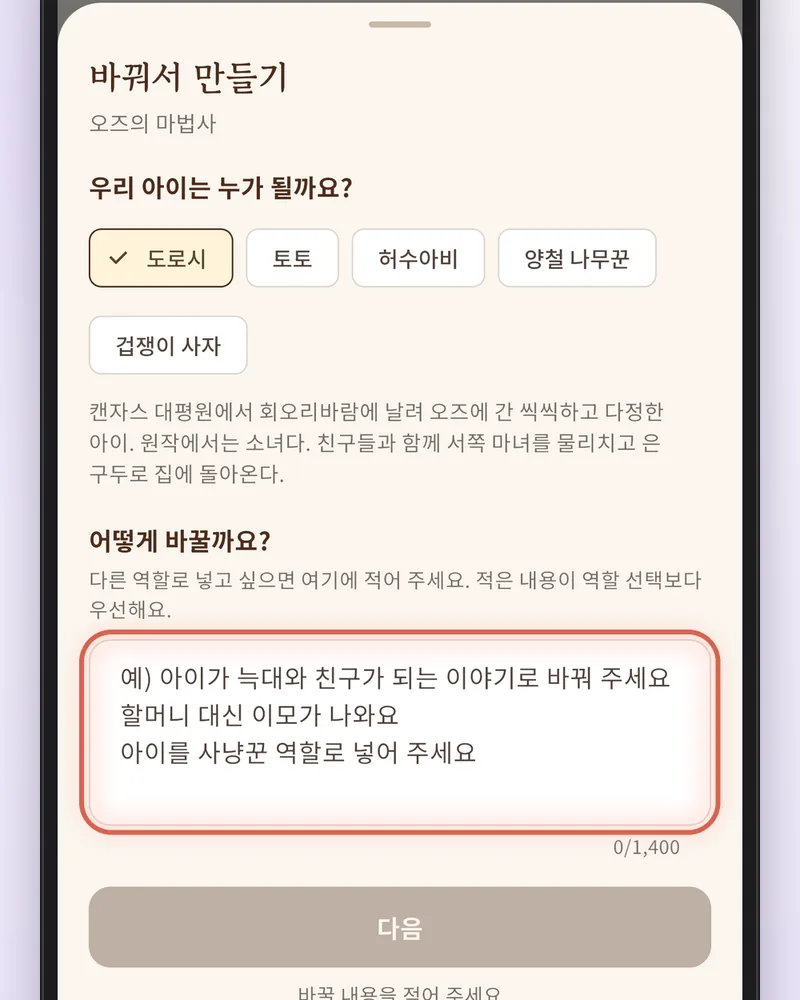
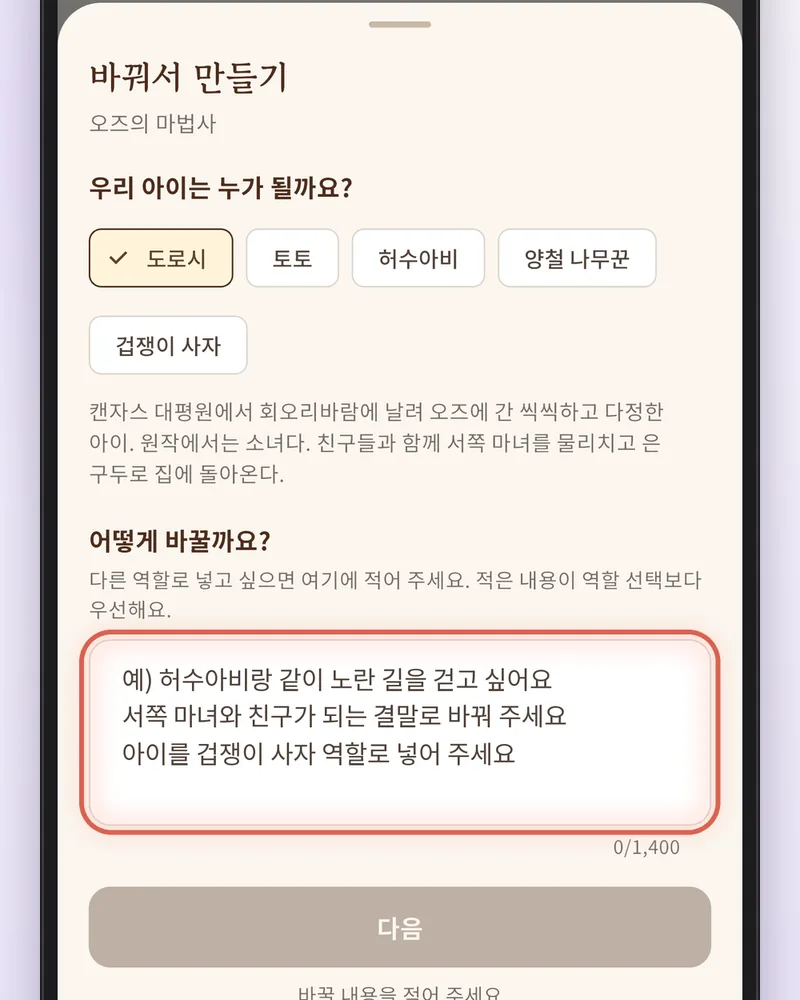
fix: 다운로드 페이지 책 사진을 실제 빨간 모자 펼침으로, 오즈 합성 화면 값 정리
- 첫 화면 책 사진의 펼친 책 두 권을 실제 생성 책(서윤 빨간 모자) 2·3쪽, 6·7쪽 페이지로 교체(글상자·말풍선이 그림 안에 든 실제 페이지), 비밀의 화원 잘림 정리(books-shelf-v3)
- 오즈 읽기 합성 화면에서 빨간 모자 쪽 수·날짜 표기 제거
- 바꿔서 만들기 입력칸 예시를 오즈에 맞는 문구로 교체
- prev.html을 직전 라이브(#75) 버전으로 갱신

Changed region(s): [[0.1562, 0.651, 0.8438, 0.775]]

diff --git a/download/prev.html b/download/prev.html
@@ -71,13 +71,23 @@
   .store svg{width:19px;height:19px;flex:none}
 
   /* nav */
-  .nav{position:relative;z-index:2;max-width:1080px;margin:0 auto;height:60px;padding-inline:20px;display:flex;align-items:center;justify-content:space-between}
-  .brand{display:flex;align-items:center;gap:8px;font-size:17px;font-weight:700;letter-spacing:-.2px}
-  .brand img{width:30px;height:30px}
-  .util{display:inline-flex;align-items:center;min-height:34px;padding:4px 14px;border:1px solid rgba(0,0,0,.08);border-radius:9999px;font-size:14px;font-weight:600;color:var(--ink2);background:rgba(255,255,255,.7)}
+  .nav-wrap{position:relative;z-index:40;padding:10px 12px 0}
+  .nav{position:relative;max-width:820px;margin:0 auto;height:54px;padding:0 7px 0 14px;display:flex;align-items:center;gap:8px;border-radius:9999px;background:rgba(255,255,255,.72);-webkit-backdrop-filter:blur(14px);backdrop-filter:blur(14px);border:1px solid rgba(255,255,255,.9);box-shadow:0 6px 24px -12px rgba(60,40,70,.25)}
+  .brand{display:flex;align-items:center;gap:8px;font-size:16px;font-weight:700;letter-spacing:-.2px;margin-right:auto}
+  .brand img{width:28px;height:28px}
+  .nav-links{display:none}
+  .nav-links a{display:block;padding:8px 14px;border-radius:9999px;font-size:15px;font-weight:600;color:var(--ink2)}
+  .nav-links a:hover{background:rgba(0,0,0,.05)}
+  .nav-cta{display:inline-flex;align-items:center;height:40px;padding:0 16px;border-radius:9999px;background:#1d1b19;color:#fff;font-size:14px;font-weight:600;white-space:nowrap}
+  .menu-btn{display:inline-flex;align-items:center;justify-content:center;width:40px;height:40px;border:0;border-radius:9999px;background:transparent;cursor:pointer;color:var(--ink2)}
+  .menu-btn svg{width:22px;height:22px}
+  .nav.open .nav-links{display:block;position:absolute;left:0;right:0;top:62px;padding:8px;border-radius:20px;background:#fff;border:1px solid var(--hairline);box-shadow:0 18px 40px -20px rgba(60,40,70,.35)}
+  .nav.open .nav-links a{padding:12px 14px;font-size:16px}
+  .top{margin-top:-64px;padding-top:64px}
+  #how,#compare,#reviews,#benefit,#get{scroll-margin-top:20px}
 
   /* hero */
-  .top{position:relative;overflow:hidden;background:
+  .top{position:relative;background:
     radial-gradient(60% 55% at 18% 8%,rgba(255,206,222,.75),rgba(255,206,222,0) 70%),
     radial-gradient(55% 50% at 86% 14%,rgba(222,212,255,.8),rgba(222,212,255,0) 70%),
     radial-gradient(70% 60% at 50% 62%,rgba(255,226,204,.65),rgba(255,226,204,0) 72%),
@@ -126,8 +136,8 @@
   .rail{display:flex;gap:12px;overflow-x:auto;scroll-snap-type:x mandatory;padding:4px max(8%,calc((100% - 460px)/2)) 12px;scrollbar-width:none;max-width:980px;margin:0 auto}
   .rail::-webkit-scrollbar{display:none}
   .rail figure{flex:0 0 84%;max-width:460px;margin:0;scroll-snap-align:center;background:var(--surface);border:1px solid var(--hairline);border-radius:12px;overflow:hidden}
-  .rail .pic{aspect-ratio:4/5;background:var(--app);display:flex;align-items:center;justify-content:center;overflow:hidden}
-  .rail .pic img{width:100%;height:100%;object-fit:contain}
+  .rail .pic{aspect-ratio:4/5;background:var(--app);overflow:hidden}
+  .rail .pic img{width:100%;height:100%;object-fit:cover}
   .rail figcaption{padding:12px 16px 14px;font-size:15px;font-weight:600;color:var(--ink)}
   .dots{display:flex;justify-content:center;gap:6px;margin-top:6px}
   .dots i{width:6px;height:6px;border-radius:9999px;background:#d6d3cf;transition:width .25s,background .25s}
@@ -135,7 +145,7 @@
 
   /* 고객님 후기 (clipspray #how 형태) */
   .rv-box{display:grid;gap:24px;max-width:880px;margin:0 auto}
-  .rv-media{position:relative;display:block;width:min(100%,340px);margin:0 auto;aspect-ratio:9/13;border-radius:24px;overflow:hidden;background:#222;box-shadow:0 30px 60px -30px rgba(30,20,10,.55)}
+  .rv-media{position:relative;display:block;width:min(100%,340px);margin:0 auto;aspect-ratio:732/825;border-radius:24px;overflow:hidden;background:#222;box-shadow:0 30px 60px -30px rgba(30,20,10,.55)}
   .rv-media img,.rv-media video{width:100%;height:100%;object-fit:cover;display:block}
   .rv-media::after{content:"";position:absolute;inset:auto 0 0 0;height:30%;background:linear-gradient(rgba(0,0,0,0),rgba(0,0,0,.35));pointer-events:none}
   .rv-media .play{position:absolute;left:50%;top:50%;z-index:1;width:68px;height:68px;margin:-34px 0 0 -34px;border-radius:9999px;background:rgba(255,255,255,.94);display:flex;align-items:center;justify-content:center;box-shadow:0 10px 26px -8px rgba(0,0,0,.45)}
@@ -151,7 +161,7 @@
   .rv-thumbs{max-width:880px;margin:36px auto 0}
   .rv-thumbs p{font-size:14px;color:var(--muted)}
   .rv-thumbs ul{display:flex;gap:10px;overflow-x:auto;margin-top:10px;padding-bottom:4px;scrollbar-width:none}
-  .rv-thumbs button{flex:none;width:76px;aspect-ratio:9/13;padding:0;border:2px solid transparent;border-radius:12px;overflow:hidden;background:none;cursor:pointer;opacity:.7}
+  .rv-thumbs button{flex:none;width:76px;aspect-ratio:732/825;padding:0;border:2px solid transparent;border-radius:12px;overflow:hidden;background:none;cursor:pointer;opacity:.7}
   .rv-thumbs button[aria-current="true"]{border-color:var(--coral);opacity:1}
   .rv-thumbs img{width:100%;height:100%;object-fit:cover}
 
@@ -169,7 +179,14 @@
   .bar .store svg{width:17px;height:17px}
 
   @media (min-width:900px){
-    .nav{height:72px}
+    .nav-wrap{position:sticky;top:0;padding-top:14px}
+    .nav{height:58px;padding-left:18px}
+    .brand{margin-right:0;flex:1}
+    .nav-links{display:flex;gap:2px;flex:none}
+    .nav-cta-wrap{flex:1;display:flex;justify-content:flex-end}
+    .menu-btn{display:none}
+    .top{margin-top:-72px;padding-top:72px}
+    #how,#compare,#reviews,#benefit,#get{scroll-margin-top:90px}
     section{padding-block:104px}
     .hero{padding-top:56px;padding-bottom:64px}
     .hero .sub{font-size:18px}
@@ -188,17 +205,23 @@
 </style>
 </head>
 <body>
-<div class="top">
-  <header class="nav">
+<header class="nav-wrap">
+  <nav class="nav" id="nav" aria-label="페이지 메뉴">
     <a class="brand" href="../"><img src="../assets/logo.svg" alt="">북끼끼</a>
-    <a class="util" href="#reviews">고객님 후기</a>
-  </header>
+    <div class="nav-links" id="navLinks">
+      <a href="#how">기능</a><a href="#compare">차별점</a><a href="#reviews">후기</a><a href="#benefit">혜택</a>
+    </div>
+    <div class="nav-cta-wrap"><a class="nav-cta" id="navCta" href="#get">앱 받기</a></div>
+    <button type="button" class="menu-btn" id="menuBtn" aria-label="메뉴 열기" aria-expanded="false" aria-controls="navLinks"><svg viewBox="0 0 24 24" fill="none" stroke="currentColor" stroke-width="2" stroke-linecap="round" aria-hidden="true"><path d="M4 7h16M4 12h16M4 17h16"/></svg></button>
+  </nav>
+</header>
+<div class="top">
   <section class="hero">
     <div class="wrap">
       <h1><em>우리 아이가<br>주인공</em>인<br>영어 동화책</h1>
       <p class="sub">아이 수준에 맞춘 영어로, <br>아이가 주인공인 동화책을 만들어요</p>
       <div class="stores" id="heroStores"><a class="store" href="https://apps.apple.com/kr/app/id6810455009"><svg viewBox="0 0 24 24" fill="#fff" aria-hidden="true"><path d="M16.4 12.6c0-2.4 2-3.6 2.1-3.7-1.1-1.7-2.9-1.9-3.5-1.9-1.5-.2-2.9.9-3.7.9-.8 0-1.9-.9-3.2-.8-1.6 0-3.1 1-4 2.4-1.7 3-.4 7.4 1.2 9.8.8 1.2 1.8 2.5 3 2.4 1.2 0 1.7-.8 3.1-.8 1.5 0 1.9.8 3.2.8 1.3 0 2.1-1.2 2.9-2.4.9-1.4 1.3-2.7 1.3-2.8 0 0-2.4-1-2.4-3.9zM14 5.5c.7-.8 1.1-1.9 1-3-1 0-2.1.7-2.8 1.5-.6.7-1.2 1.8-1 2.9 1.1.1 2.1-.6 2.8-1.4z"/></svg>App Store</a><a class="store" href="https://play.google.com/store/apps/details?id=com.bookkiki.app"><svg viewBox="0 0 24 24" aria-hidden="true"><path fill="#34A853" d="M3.6 2.2 13.4 12l-9.8 9.8c-.4-.2-.6-.6-.6-1.1V3.3c0-.5.2-.9.6-1.1z"/><path fill="#FBBC04" d="m16.8 15.4-3.4-3.4 3.4-3.4 3.9 2.2c1.1.6 1.1 1.8 0 2.4z"/><path fill="#4285F4" d="M16.8 15.4 13.4 12l-9.8 9.8c.4.2.9.2 1.4-.1z"/><path fill="#EA4335" d="M16.8 8.6 5 2.3c-.5-.3-1-.3-1.4-.1L13.4 12z"/></svg>Google Play</a></div>
-      <aside class="promo" aria-label="진행 중인 혜택">
+      <aside class="promo" id="benefit" aria-label="진행 중인 혜택">
         <p class="promo-h"><span>지금 <em>약 2만 원 상당</em> 혜택 진행 중</span></p>
         <ul>
           <li><span class="t">동화책 최대 4권 무료<small>아무 조건 없이 바로 만들 수 있어요</small></span><span class="free">무료</span></li>
@@ -208,13 +231,13 @@
     </div>
   </section>
   <figure class="pile wrap">
-    <div class="ph"><img src="../assets/download/books-pile.webp" srcset="../assets/download/books-pile-720.webp 720w, ../assets/download/books-pile.webp 1200w" sizes="(min-width:900px) 720px, calc(100vw - 40px)" width="1200" height="900" decoding="async" alt="나무 테이블 위에 펼쳐 놓은 북끼끼 옛날 동화 하드커버 책들: The Sun and the Moon, Heungbu and Nolbu, Cinderella, The Wonderful Wizard of Oz, Kongjwi and Patjwi, Little Red Riding Hood, The Rabbit and the Dragon King, The Tortoise and the Hare, The Ugly Duckling, The Secret Garden, The Golden Axe"></div>
+    <div class="ph"><img src="../assets/download/books-shelf-v2.webp" srcset="../assets/download/books-shelf-v2-720.webp 720w, ../assets/download/books-shelf-v2.webp 1200w" sizes="(min-width:900px) 720px, calc(100vw - 40px)" width="1200" height="800" decoding="async" alt="창가 리넨 테이블 위에 놓인 북끼끼 옛날 동화 하드커버 책들(오즈의 마법사, 빨간 모자, 흥부와 놀부, 해님 달님, 비밀의 화원)과 펼쳐진 오즈의 마법사: 회오리바람에 날아가는 집 그림과 영어 문장 Seoyun lives in Kansas with Toto."></div>
     <figcaption><b>옛날 동화 30권</b> · 고른 이야기 속 주인공이 우리 아이가 돼요</figcaption>
   </figure>
 </div>
 
 <main>
-<section>
+<section id="compare">
   <div class="wrap">
     <div class="head">
       <p class="kicker">차별점</p>
@@ -239,14 +262,14 @@
           <li><i aria-hidden="true">✓</i>그림 속 주인공도 우리 아이 모습, 장면마다 같은 모습으로</li>
           <li><i aria-hidden="true">✓</i>영어로 읽어 주고, 한국어 번역도 볼 수 있어요</li>
           <li><i aria-hidden="true">✓</i>내 이야기라서 영어를 즐겁게 여겨요</li>
-          <li><i aria-hidden="true">✓</i>실물 하드커버로 받아 아이 있는 집 선물로도 좋아요</li>
+          <li><i aria-hidden="true">✓</i>실물 하드커버 책으로 받아 아이 있는 집 선물로도 좋아요</li>
         </ul>
       </div>
     </div>
   </div>
 </section>
 
-<section class="canvas">
+<section class="canvas" id="how">
   <div class="wrap">
     <div class="head">
       <p class="kicker">만드는 방법 3가지</p>
@@ -260,29 +283,35 @@
   </div>
   <div class="flow-panel" role="tabpanel" id="p-classic" aria-labelledby="t-classic">
     <div class="rail" aria-label="옛날 동화·고전 순서">
-      <figure><div class="pic"><img src="../assets/download/flow-oz-shelf.webp" width="800" height="1000" loading="lazy" decoding="async" alt="옛날 동화·고전 책장 화면: 전체 30권, 이상한 나라의 앨리스와 오즈의 마법사(추천 나이 5-9세)"></div><figcaption>옛날 동화·고전 30권 중 고르고</figcaption></figure>
-      <figure><div class="pic"><img src="../assets/download/flow-oz-detail.webp" width="800" height="879" loading="lazy" decoding="async" alt="오즈의 마법사 소개 화면: 추천 5-9세, 우리 아이 나이에 딱, 줄거리"></div><figcaption>줄거리와 추천 나이를 확인하고</figcaption></figure>
-      <figure><div class="pic"><img src="../assets/download/flow-oz-roles.webp" width="800" height="1000" loading="lazy" decoding="async" alt="오즈의 마법사 등장인물 카드: 도로시, 허수아비, 양철 나무꾼, 겁쟁이 사자, 모두 우리 아이가 될 수 있어요"></div><figcaption>도로시도, 사자도… 아이가 맡을 역할을 정하고</figcaption></figure>
-      <figure><div class="pic"><img src="../assets/download/flow-oz-change.webp" width="800" height="1273" loading="lazy" decoding="async" alt="바꿔서 만들기 화면: 우리 아이는 누가 될까요? 도로시, 토토, 허수아비, 양철 나무꾼, 겁쟁이 사자, 그리고 바꿀 내용을 1,400자까지 적는 칸"></div><figcaption>‘바꿔서 만들기’로 내용·결말도 원하는 대로</figcaption></figure>
-      <figure><div class="pic"><img src="../assets/download/flow-oz-level.webp" width="800" height="1000" loading="lazy" decoding="async" alt="이런 영어로 쓰여요 화면: 오즈의 마법사 6단계 영어 Seoyun lives in Kansas with Toto. 더 쉽게·더 어렵게 버튼"></div><figcaption>아이 수준 영어로, 더 쉽게·어렵게도</figcaption></figure>
-      <figure><div class="pic"><img src="../assets/download/flow-classic-reader.webp" width="800" height="1591" loading="lazy" decoding="async" alt="완성된 고전 동화책 읽기 화면: 동화 읽기 버튼과 한/A 번역 버튼"></div><figcaption>영어로 읽어 주고, 한국어 번역도 볼 수 있어요</figcaption></figure>
+      <figure><div class="pic"><img src="../assets/download/slide-classic-1.webp" width="800" height="1000" loading="lazy" decoding="async" alt="옛날 동화·고전 책장 화면: 전체 30권 중 오즈의 마법사(추천 나이 5-9세)"></div><figcaption>옛날 동화·고전 30권 중에 고르고</figcaption></figure>
+      <figure><div class="pic"><img src="../assets/download/slide-classic-2.webp" width="800" height="1000" loading="lazy" decoding="async" alt="오즈의 마법사 등장인물 카드: 도로시, 허수아비, 양철 나무꾼, 겁쟁이 사자, 모두 우리 아이가 될 수 있어요"></div><figcaption>도로시도, 사자도… 주인공도 조연도 아이가 골라요</figcaption></figure>
+      <figure><div class="pic"><img src="../assets/download/slide-classic-3.webp" width="800" height="1000" loading="lazy" decoding="async" alt="바꿔서 만들기 화면: 역할 고르기와 바꿀 내용을 1,400자까지 적는 칸"></div><figcaption>‘바꿔서 만들기’로 내용·결말도 원하는 대로</figcaption></figure>
+      <figure><div class="pic"><img src="../assets/download/slide-classic-4.webp" width="800" height="1000" loading="lazy" decoding="async" alt="이런 영어로 쓰여요 화면: 오즈의 마법사 6단계 영어와 더 쉽게·더 어렵게 버튼"></div><figcaption>아이 수준 영어로, 더 쉽게·어렵게도</figcaption></figure>
+      <figure><div class="pic"><img src="../assets/download/slide-classic-5.webp" width="800" height="1000" loading="lazy" decoding="async" alt="완성된 오즈의 마법사 동화책 앞표지 화면: 지은이 서윤"></div><figcaption>우리 아이가 주인공인 오즈의 마법사 완성</figcaption></figure>
+      <figure><div class="pic"><img src="../assets/download/slide-classic-6.webp" width="800" height="1000" loading="lazy" decoding="async" alt="오즈의 마법사 읽기 화면: Seoyun lives in Kansas with Toto. A big wind comes. Whoosh! Up flies the house! 동화 읽기 버튼"></div><figcaption>‘동화 읽기’를 누르면 영어로 읽어 줘요</figcaption></figure>
+      <figure><div class="pic"><img src="../assets/download/slide-classic-7.webp" width="800" height="1000" loading="lazy" decoding="async" alt="오즈의 마법사 한국어 번역 화면: 서윤이는 캔자스에서 토토랑 살아요. 큰 바람이 불어요. 휘익! 집이 하늘로 날아올라요! 한/A 버튼"></div><figcaption>한/A 버튼 하나로 한국어 번역도 바로 봐요</figcaption></figure>
     </div>
     <div class="dots" aria-hidden="true"></div>
   </div>
   <div class="flow-panel" role="tabpanel" id="p-story" aria-labelledby="t-story" hidden>
     <div class="rail" aria-label="아이 이야기 순서">
-      <figure><div class="pic"><img src="../assets/download/flow-story-interview.webp" width="800" height="1212" loading="lazy" decoding="async" alt="키키와 이야기 화면: 키키가 묻고 아이가 눌러서 말하기로 답하는 화면"></div><figcaption>키키가 묻고, 아이가 말로 답하면</figcaption></figure>
-      <figure><div class="pic"><img src="../assets/download/flow-shelf.webp" width="800" height="1006" loading="lazy" decoding="async" alt="내 책장 화면: 완성된 영어 동화책들"></div><figcaption>아이 수준 영어로 동화책이 완성돼요</figcaption></figure>
-      <figure><div class="pic"><img src="../assets/download/flow-reader.webp" width="800" height="1545" loading="lazy" decoding="async" alt="완성된 동화책 읽기 화면: Seoyun made a blanket forest. 동화 읽기 버튼과 한/A 번역 버튼"></div><figcaption>영어로 읽어 주고, 한국어 번역도 볼 수 있어요</figcaption></figure>
+      <figure><div class="pic"><img src="../assets/download/slide-story-1.webp" width="800" height="1000" loading="lazy" decoding="async" alt="키키와 이야기 시작 화면: 1단계 키키와 이야기, 2단계 그림체 고르기, 3단계 약 10분 뒤 책 완성"></div><figcaption>키키와 이야기 → 그림체 고르기 → 약 10분 뒤 완성</figcaption></figure>
+      <figure><div class="pic"><img src="../assets/download/slide-story-2.webp" width="800" height="1000" loading="lazy" decoding="async" alt="키키가 묻고 아이가 눌러서 말하기로 답하는 화면"></div><figcaption>키키가 묻고, 아이가 말로 답해요</figcaption></figure>
+      <figure><div class="pic"><img src="../assets/download/slide-story-3.webp" width="800" height="1000" loading="lazy" decoding="async" alt="지금까지 나눈 이야기 화면: 말로 하기 어려울 때 글로 써서 보내기"></div><figcaption>말로 하기 어려우면 글로 써도 돼요</figcaption></figure>
+      <figure><div class="pic"><img src="../assets/download/slide-story-4.webp" width="800" height="1000" loading="lazy" decoding="async" alt="내 책장 화면: 완성된 Seoyun and the Five Crowns"></div><figcaption>아이 수준 영어로 동화책 완성</figcaption></figure>
+      <figure><div class="pic"><img src="../assets/download/slide-story-5.webp" width="800" height="1000" loading="lazy" decoding="async" alt="완성된 동화책 읽기 화면: Seoyun made a blanket forest. 동화 읽기 버튼"></div><figcaption>‘동화 읽기’를 누르면 영어로 읽어 줘요</figcaption></figure>
+      <figure><div class="pic"><img src="../assets/download/slide-story-6.webp" width="800" height="1000" loading="lazy" decoding="async" alt="한국어 번역 화면: 서윤은 이불 숲을 만들었어요. 한/A 버튼"></div><figcaption>한/A 버튼 하나로 한국어 번역도 바로 봐요</figcaption></figure>
     </div>
     <div class="dots" aria-hidden="true"></div>
   </div>
   <div class="flow-panel" role="tabpanel" id="p-diary" aria-labelledby="t-diary" hidden>
     <div class="rail" aria-label="아이의 일기·글 순서">
-      <figure><div class="pic"><img src="../assets/download/flow-diary-input.webp" width="800" height="1145" loading="lazy" decoding="async" alt="아이의 일기·글 화면: 사진으로 가져오기와 직접 입력하기"></div><figcaption>일기를 사진으로 찍거나 입력하고</figcaption></figure>
-      <figure><div class="pic"><img src="../assets/download/flow-diary-edit.webp" width="800" height="1170" loading="lazy" decoding="async" alt="읽은 글 확인하기 화면: 손글씨 일기를 읽어 다듬은 글, 고치거나 덧붙일 수 있는 칸"></div><figcaption>읽어 들인 글을 고치고, 더하고 싶은 내용도</figcaption></figure>
-      <figure><div class="pic"><img src="../assets/download/flow-shelf.webp" width="800" height="1006" loading="lazy" decoding="async" alt="내 책장 화면: 완성된 영어 동화책들"></div><figcaption>아이 수준 영어로 동화책이 완성돼요</figcaption></figure>
-      <figure><div class="pic"><img src="../assets/download/flow-reader.webp" width="800" height="1545" loading="lazy" decoding="async" alt="완성된 동화책 읽기 화면: 동화 읽기 버튼과 한/A 번역 버튼"></div><figcaption>영어로 읽어 주고, 한국어 번역도 볼 수 있어요</figcaption></figure>
+      <figure><div class="pic"><img src="../assets/download/slide-diary-1.webp" width="800" height="1000" loading="lazy" decoding="async" alt="아이의 일기·글 화면: 사진으로 가져오기와 직접 입력하기"></div><figcaption>일기를 사진으로 가져오거나 직접 입력하고</figcaption></figure>
+      <figure><div class="pic"><img src="../assets/download/slide-diary-2.webp" width="800" height="1000" loading="lazy" decoding="async" alt="사진 찍기와 앨범에서 고르기 선택 화면"></div><figcaption>손글씨 일기를 바로 찍어도 돼요</figcaption></figure>
+      <figure><div class="pic"><img src="../assets/download/slide-diary-3.webp" width="800" height="1000" loading="lazy" decoding="async" alt="읽은 글 확인하기 화면: 손글씨 일기를 읽어 다듬은 글을 고치거나 덧붙이는 칸"></div><figcaption>읽어 들인 글을 고치고, 더하고 싶은 내용도</figcaption></figure>
+      <figure><div class="pic"><img src="../assets/download/slide-diary-4.webp" width="800" height="1000" loading="lazy" decoding="async" alt="내 책장 화면: 완성된 영어 동화책"></div><figcaption>아이 수준 영어로 동화책 완성</figcaption></figure>
+      <figure><div class="pic"><img src="../assets/download/slide-diary-5.webp" width="800" height="1000" loading="lazy" decoding="async" alt="완성된 동화책 읽기 화면: 동화 읽기 버튼"></div><figcaption>‘동화 읽기’를 누르면 영어로 읽어 줘요</figcaption></figure>
+      <figure><div class="pic"><img src="../assets/download/slide-diary-6.webp" width="800" height="1000" loading="lazy" decoding="async" alt="한국어 번역 화면: 한/A 버튼"></div><figcaption>한/A 버튼 하나로 한국어 번역도 바로 봐요</figcaption></figure>
     </div>
     <div class="dots" aria-hidden="true"></div>
   </div>
@@ -306,7 +335,7 @@
   </div>
 </section>
 
-<section class="final canvas">
+<section class="final canvas" id="get">
   <div class="wrap">
     <img class="kiki" src="../assets/download/kiki.webp" width="360" height="360" alt="" loading="lazy">
     <h2>우리 아이가 주인공인<br>첫 영어 동화책</h2>
@@ -379,7 +408,7 @@
     }
     if (REVIEWS.length) render(0);
 
-    // 만드는 방법: 탭마다 화면 캐러셀 (event/classic 과 같은 방식 — 1.6초마다 넘김, 손대면 4초 쉼)
+    // 만드는 방법: 탭마다 화면 캐러셀 (event/classic 과 같은 방식 — 3초마다 넘김, 손대면 4초 쉼)
     function carousel(rail, dots){
       var figs = rail.querySelectorAll('figure'), cur = 0, pauseUntil = 0, animating = false, visible = false;
       figs.forEach(function(){ dots.appendChild(document.createElement('i')); });
@@ -411,7 +440,7 @@
       if (!(window.matchMedia && matchMedia('(prefers-reduced-motion: reduce)').matches)) setInterval(function(){
         if (!visible || document.hidden || animating || Date.now() < pauseUntil) return;
         go(cur + 1);
-      }, 1600);
+      }, 3000);
       return { reset: function(){ cur = 0; rail.scrollLeft = 0; pauseUntil = Date.now() + 1200; mark(); } };
     }
     var flows = {};
@@ -432,6 +461,14 @@
         if (d) { var n = tabs[(i + d + tabs.length) % tabs.length]; select(n); n.focus(); }
       });
     });
+
+    // 상단 메뉴: 모바일은 메뉴 버튼으로 열고 닫음, '앱 받기'는 기기에 맞는 스토어로
+    var nav = document.getElementById('nav'), menuBtn = document.getElementById('menuBtn');
+    menuBtn.addEventListener('click', function(){ var o = nav.classList.toggle('open'); menuBtn.setAttribute('aria-expanded', o); });
+    [].forEach.call(document.querySelectorAll('#navLinks a'), function(a){ a.addEventListener('click', function(){ nav.classList.remove('open'); menuBtn.setAttribute('aria-expanded', 'false'); }); });
+    var ua = navigator.userAgent || '', cta = document.getElementById('navCta');
+    if (/Android/i.test(ua)) cta.href = 'https://play.google.com/store/apps/details?id=com.bookkiki.app';
+    else if (/iPhone|iPad|iPod/i.test(ua) || (navigator.platform === 'MacIntel' && navigator.maxTouchPoints > 1)) cta.href = 'https://apps.apple.com/kr/app/id6810455009';
 
     // 하단 스토어 바: 위쪽 스토어 버튼을 지나면 나타나고, 마지막 버튼이 보이면 숨김
     var bar = document.getElementById('bar'), hero = document.getElementById('heroStores'), end = document.getElementById('endStores');

diff --git a/download/index.html b/download/index.html
@@ -230,7 +230,7 @@
     </div>
   </section>
   <figure class="pile wrap">
-    <div class="ph"><img src="../assets/download/books-shelf-v2.webp" srcset="../assets/download/books-shelf-v2-720.webp 720w, ../assets/download/books-shelf-v2.webp 1200w" sizes="(min-width:900px) 720px, calc(100vw - 40px)" width="1200" height="800" decoding="async" alt="창가 리넨 테이블 위에 놓인 북끼끼 옛날 동화 하드커버 책들(오즈의 마법사, 빨간 모자, 흥부와 놀부, 해님 달님, 비밀의 화원)과 펼쳐진 오즈의 마법사: 회오리바람에 날아가는 집 그림과 영어 문장 Seoyun lives in Kansas with Toto."></div>
+    <div class="ph"><img src="../assets/download/books-shelf-v3.webp" srcset="../assets/download/books-shelf-v3-720.webp 720w, ../assets/download/books-shelf-v3.webp 1200w" sizes="(min-width:900px) 720px, calc(100vw - 40px)" width="1200" height="800" decoding="async" alt="창가 테이블 위에 놓인 북끼끼 옛날 동화 하드커버 책들(오즈의 마법사, 흥부와 놀부, 해님 달님, 비밀의 화원)과 펼쳐진 빨간 모자 동화책 두 권: 그림 속 글상자와 말풍선으로 All call her Little Red Riding Hood., Cake goes in. Wine goes in., Look, pretty flowers! 같은 문장이 들어간 실제 책 페이지"></div>
     <figcaption><b>옛날 동화 30권</b> · 고른 이야기 속 주인공이 우리 아이가 돼요</figcaption>
   </figure>
 </div>
